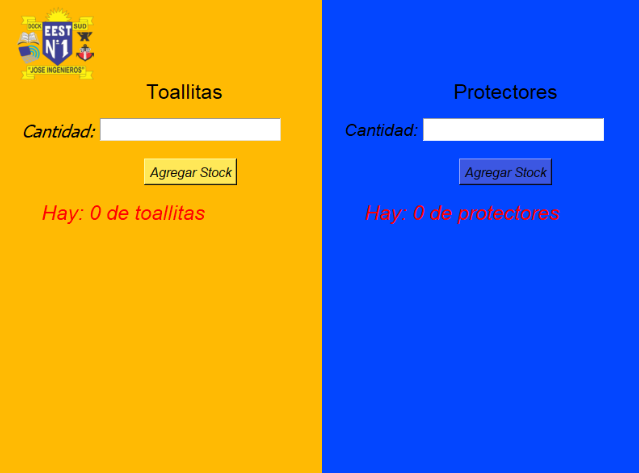
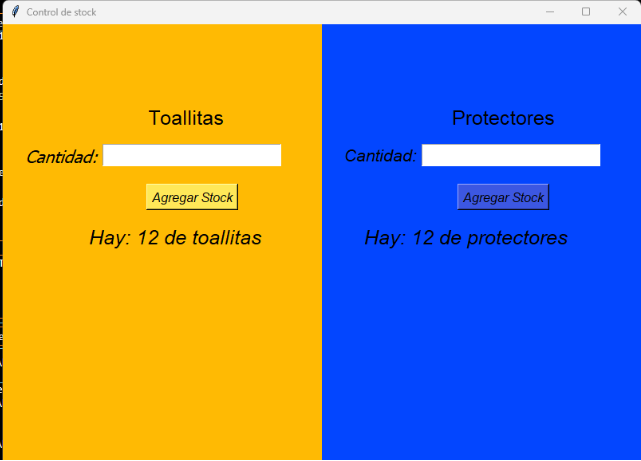
Add files via upload

diff --git a/pruebapython.html b/pruebapython.html
@@ -1,0 +1,112 @@
+<!DOCTYPE html>
+<html lang="es">
+
+<head>
+    <meta charset="utf-8">
+    <meta name="viewport" content="width=device-width, initial-scale=1">
+
+    <title>Python</title>
+
+    <link rel="stylesheet" href="informacion.css">
+</head>
+
+<body>
+
+    <header>
+
+        <div class="tecnica">
+            <img src="tecnica.png" alt="Técnica">
+        </div>
+
+        <nav>
+            <p>7°2° PROGRAMACION</p>
+
+            <h2>Python</h2>
+
+            <ul>
+                <li>
+                    <a href="index.html">Volver</a>
+                </li>
+            </ul>
+        </nav>
+
+    </header>
+
+
+    <section>
+
+        <article class="pagina-python">
+
+            <h1>¿QUÉ ES PYTHON?</h1>
+
+            <img src="python.png" class="python-chica" alt="Python">
+
+            <p>
+                Python es un lenguaje de programación utilizado para desarrollar
+                diferentes tipos de programas y aplicaciones. Se caracteriza por
+                tener una sintaxis sencilla y fácil de entender, por lo que es muy
+                utilizado tanto por personas que están comenzando a programar como
+                por programadores con experiencia.
+                <br><br>
+
+                Python permite crear programas, automatizar tareas, trabajar con
+                datos, desarrollar aplicaciones y controlar diferentes sistemas.
+                Además, cuenta con muchas herramientas y bibliotecas que permiten
+                ampliar sus posibilidades.
+                <br><br>
+
+                En nuestro proyecto, Python forma parte de las herramientas que
+                utilizamos para aplicar conocimientos de programación y
+                automatización, trabajando junto con Arduino para lograr el
+                funcionamiento del sistema.
+            </p>
+
+
+            <h1>PROYECTO DEL DISPENSER (PARTE DE PYTHON)</h1>
+
+
+            <p>Lo que se hizo fue un app para el controlar el stock de un dispensador de toallitas con python y arduino</p>
+
+            <p>el Frontend se ve asi:<p>
+
+                <img src="tk.png">
+
+           <p> y el backend para que se viera asi es el sig:</p>
+
+                <img src="codigos1.png">
+
+            <p>para que se vea este texto:</p>
+
+                <img src="fotohj.png">
+
+            <p>en el back se hizo lo siguiente:
+
+                <img src="codigos57.png">
+
+
+            eso es para cargar la cantidad de toallitas y de protectores</p>
+
+                <img src="codigos2.png">
+
+            <p>y para actualizar esa cantidad en el back se hizo lo Sig.:
+            sirve para actualizar la cantidad de toallitas y protectores</p>
+
+                <img src="codigos34.png">
+
+            <p>ahora la comunicación con arduino en el backend:</p>
+
+                <img src="codigos89.png">
+
+            <p>esto lo que hace es que lee algo en arduino y si tiene tal cosa descuenta y sino no descuenta
+
+            y para que funcione parelamente con python sin que uno este ejecutandose uno primero y despues el otro se usa un hilo:
+
+            un hilo se usa mas que nada para que dos acciones funcionen de manera simultanea sin que uno se priorize uno sobre otro</p>
+
+        </article>
+
+    </section>
+
+</body>
+
+</html>

diff --git a/informacion.css b/informacion.css
@@ -410,3 +410,38 @@ article img.foto-grande {
     width: 700px;
     max-width: 100%;
 }
+/* AGRANDAR LAS IMÁGENES DE LA PÁGINA PYTHON */
+
+.pagina-python img {
+    width: 600px;
+    max-width: 100%;
+    height: auto;
+    object-fit: contain;
+}
+
+/* AGRANDAR MÁS LAS CAPTURAS DE CÓDIGO */
+
+.pagina-python img[src*="codigos"],
+.pagina-python img[src*="condigos"] {
+    width: 850px;
+    max-width: 100%;
+    height: auto;
+}
+
+/* ADAPTACIÓN PARA CELULARES */
+
+@media (max-width: 700px) {
+    .pagina-python img,
+    .pagina-python img[src*="codigos"],
+    .pagina-python img[src*="condigos"] {
+        width: 100%;
+        max-width: 100%;
+        height: auto;
+    }
+}
+
+article img.python-chica {
+    width: 150px;
+    max-width: 100%;
+    height: auto;
+}
